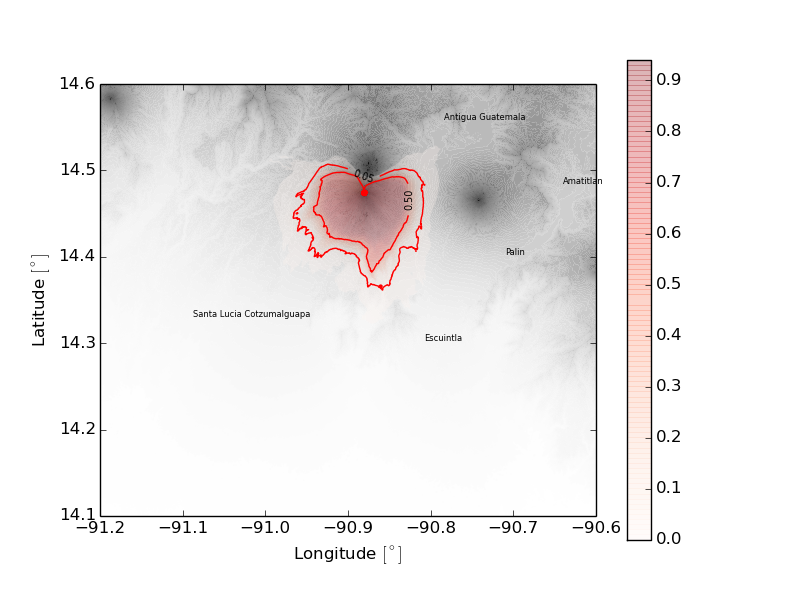
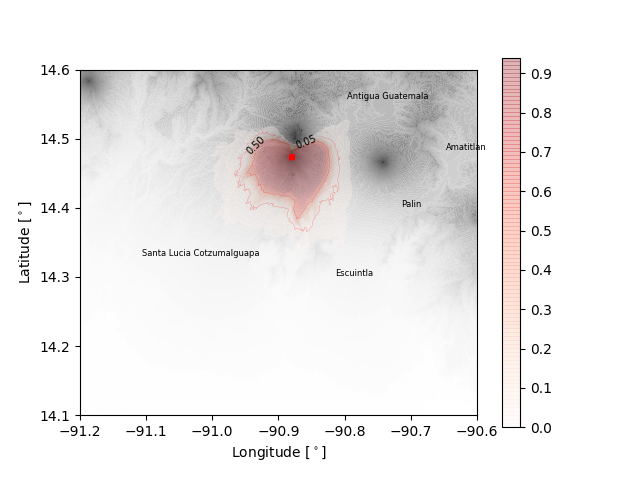
Minor changes

diff --git a/ECMapProb.py b/ECMapProb.py
@@ -506,6 +506,10 @@ angstep = 10
 distep = 10
 anglen = 360 / angstep
 pix_min = 0.0
+angstep_res2 = 2
+angstep_res3 = 0.4
+anglen_res2 = 360 / angstep_res2
+anglen_res3 = 360 / angstep_res3
 
 if( redist_energy == 3 or redist_energy == 4 ):
 	factor_mult = 50.0
@@ -526,7 +530,7 @@ if( redist_energy == 3 or redist_energy == 4 ):
 	vector_correc = np.zeros(int(anglen))
 
 if( save_data == 1 ):
-	summary_data = np.zeros((N,6 + length_direction))
+	summary_data = np.zeros((N,7 + length_direction))
 	summary_data[:,0] = height_vector
 	summary_data[:,1] = hl_vector
 	if( source_dem == 1 or source_dem == 3):
@@ -548,10 +552,13 @@ if(source_dem == 1 or source_dem == 3):
 	data_cones = np.zeros((cells_lat,cells_lon))
 	data_aux_t = np.ones((cells_lat,cells_lon))
 	data_aux_b = np.zeros((cells_lat,cells_lon))
-	vec_ang = range(0, 360, angstep)
+	vec_ang = np.arange(0, 360, angstep)
+	vec_ang_res2 = np.arange(0, 360, angstep_res2)
+	vec_ang_res3 = np.arange(0, 360, angstep_res3)
 
 	for i in range(0,N):
 
+		runout_min = -1
 		current_level = 0
 		data_step = np.zeros((cells_lat,cells_lon))
 		polygon = []
@@ -599,6 +606,8 @@ if(source_dem == 1 or source_dem == 3):
 
 			polygon_xy = []
 			polygons_new = []
+			polygon_xy_res2 = []
+			polygon_xy_res3 = []
 
 			for angle_deg in vec_ang:
 				angle_rad = angle_deg * np.pi /180
@@ -614,16 +623,38 @@ if(source_dem == 1 or source_dem == 3):
 				if( polygon[j][4] == np.int(polygon[j][4]) ):
 					for ii in range(int(anglen)):
 						vector_correc[ii] = vector_backward_1[int((ii - polygon[j][4] + index_max) % anglen)]
-
 				else:
 					for ii in range(int(anglen)):
 						vector_correc[ii] = vector_backward_2[int((ii - polygon[j][4] + index_max) % anglen)]
-
 				polygons_new = polygons_new * vector_correc
+			if( j == 0 ):
+				runout_min = min(polygons_new)
+
+			if( max(polygons_new) > 500 and max(polygons_new) < 5000 ):
+				for angle_deg in vec_ang_res2:
+					angle_rad = angle_deg * np.pi /180
+					for distance in range(0, 100000, distep):
+						h = interpol_pos(lon1, lat1, step_lon_deg, step_lat_deg, polygon[j][0] + distance * cos(angle_rad) * step_lon_deg / step_lon_m , polygon[j][1] + distance*sin(angle_rad)*step_lat_deg/step_lat_m , cells_lon, cells_lat, Topography)
+						if( h >= polygon[j][2] - hl_current * distance ):
+							polygon_xy_res2.append((int((polygon[j][0] + (distance - distep)*cos(angle_rad)*step_lon_deg/step_lon_m - lon1) * cells_lon / (lon2 - lon1)),int((polygon[j][1] + (distance - distep)*sin(angle_rad)*step_lat_deg/step_lat_m - lat1) * cells_lat / (lat2 - lat1))))
+							break
+			elif( max(polygons_new) >= 5000 ):
+				for angle_deg in vec_ang_res3:
+					angle_rad = angle_deg * np.pi /180
+					for distance in range(0, 100000, distep):
+						h = interpol_pos(lon1, lat1, step_lon_deg, step_lat_deg, polygon[j][0] + distance * cos(angle_rad) * step_lon_deg / step_lon_m , polygon[j][1] + distance*sin(angle_rad)*step_lat_deg/step_lat_m , cells_lon, cells_lat, Topography)
+						if( h >= polygon[j][2] - hl_current * distance ):
+							polygon_xy_res3.append((int((polygon[j][0] + (distance - distep)*cos(angle_rad)*step_lon_deg/step_lon_m - lon1) * cells_lon / (lon2 - lon1)),int((polygon[j][1] + (distance - distep)*sin(angle_rad)*step_lat_deg/step_lat_m - lat1) * cells_lat / (lat2 - lat1))))
+							break
 
 			img = Image.new('L', (cells_lon, cells_lat), 0)
 			if( len(polygon_xy) > 0 ):
-				draw = ImageDraw.Draw(img).polygon(polygon_xy, outline = 1 , fill = 1)
+				if(  max(polygons_new) <= 500 ):
+					draw = ImageDraw.Draw(img).polygon(polygon_xy, outline = 1 , fill = 1)
+				elif( max(polygons_new) > 500 and max(polygons_new) < 5000 ):
+					draw = ImageDraw.Draw(img).polygon(polygon_xy_res2, outline = 1 , fill = 1)
+				else:
+					draw = ImageDraw.Draw(img).polygon(polygon_xy_res3, outline = 1 , fill = 1)
 				data_step = np.maximum( np.minimum(data_aux_t, data_step + np.array(img)), data_aux_b)
 
 			if( cone_levels > polygon[j][3] and sum(sum(data_step)) > sum_pixels + pix_min ):
@@ -876,11 +907,12 @@ if(source_dem == 1 or source_dem == 3):
 				for ii in range(length_direction):
 					distances_corrected = distances * data_direction[:,:,ii]
 					distances_corrected = distances_corrected * data_step[ range(len(data_cones[:,0]) -1 , -1 , -1 ) , : ]
-					summary_data[i,6 + ii]  = distances_corrected.max() / 1000.0
+					summary_data[i,7 + ii]  = distances_corrected.max() / 1000.0
 
 			distances = distances * data_step[ range(len(data_cones[:,0]) -1 , -1 , -1 ) , : ]
 			summary_data[i,4] = sum(sum(data_step)) * area_pixel
 			summary_data[i,5] = distances.max() / 1000.0
+			summary_data[i,6] = runout_min / 1000.0
 
 		print(' Simulation finished (N = ' + str(i+1) + ')')
 
@@ -890,8 +922,11 @@ if( source_dem == 2 ):
 	data_aux_t = np.ones((n_north,n_east))
 	data_aux_b = np.zeros((n_north,n_east))
 	vec_ang = range(0, 360, angstep)
+	vec_ang_res2 = np.arange(0, 360, angstep_res2)
+	vec_ang_res3 = np.arange(0, 360, angstep_res3)
 
 	for i in range(0,N):
+		runout_min = -1
 		current_level = 0
 		data_step = np.zeros((n_north,n_east))
 		polygon = []
@@ -916,6 +951,8 @@ if( source_dem == 2 ):
 
 			polygon_xy = []
 			polygons_new = []
+			polygon_xy_res2 = []
+			polygon_xy_res3 = []
 
 			for angle_deg in vec_ang:
 				angle_rad = angle_deg * np.pi /180
@@ -937,10 +974,33 @@ if( source_dem == 2 ):
 						vector_correc[ii] = vector_backward_2[int((ii - polygon[j][4] + index_max) % anglen)]
 
 				polygons_new = polygons_new * vector_correc
+			if( j == 0 ):
+				runout_min = min(polygons_new)
+			if( max(polygons_new) > 500 and max(polygons_new) < 5000 ):
+				for angle_deg in vec_ang_res2:
+					angle_rad = angle_deg * np.pi /180
+					for distance in range(0, 100000, distep):
+						h = interpol_pos(east_cor, north_cor, cellsize, cellsize, polygon[j][0] + distance * cos(angle_rad) , polygon[j][1] + distance*sin(angle_rad) , n_east, n_north, Topography)
+						if( h >= polygon[j][2] - hl_current * distance ):
+							polygon_xy_res2.append((int((polygon[j][0] + (distance-distep)* cos(angle_rad) - east_cor) * n_east / ( cellsize * ( n_east - 1 ) ) ), int((polygon[j][1] + (distance-distep)*sin(angle_rad) - north_cor) * n_north / ( cellsize * ( n_north - 1 ) ))))
+							break
+			elif( max(polygons_new) >= 5000 ):
+				for angle_deg in vec_ang_res3:
+					angle_rad = angle_deg * np.pi /180
+					for distance in range(0, 100000, distep):
+						h = interpol_pos(east_cor, north_cor, cellsize, cellsize, polygon[j][0] + distance * cos(angle_rad) , polygon[j][1] + distance*sin(angle_rad) , n_east, n_north, Topography)
+						if( h >= polygon[j][2] - hl_current * distance ):
+							polygon_xy_res3.append((int((polygon[j][0] + (distance-distep)* cos(angle_rad) - east_cor) * n_east / ( cellsize * ( n_east - 1 ) ) ), int((polygon[j][1] + (distance-distep)*sin(angle_rad) - north_cor) * n_north / ( cellsize * ( n_north - 1 ) ))))
+							break
 
 			img = Image.new('L', (n_east, n_north), 0)
 			if( len(polygon_xy) > 0 ):
-				draw = ImageDraw.Draw(img).polygon(polygon_xy, outline = 0 , fill = 1)
+				if(  max(polygons_new) <= 500 ):
+					draw = ImageDraw.Draw(img).polygon(polygon_xy, outline = 1 , fill = 1)
+				elif( max(polygons_new) > 500 and max(polygons_new) < 5000 ):
+					draw = ImageDraw.Draw(img).polygon(polygon_xy_res2, outline = 1 , fill = 1)
+				else:
+					draw = ImageDraw.Draw(img).polygon(polygon_xy_res3, outline = 1 , fill = 1)
 				data_step = np.maximum( np.minimum(data_aux_t, data_step + np.array(img)), data_aux_b)
 
 			if( cone_levels > polygon[j][3] and sum(sum(data_step)) > sum_pixels + pix_min ):
@@ -1167,6 +1227,7 @@ if( source_dem == 2 ):
 			distances = distances * data_step[ range(len(data_cones[:,0]) -1 , -1 , -1 ) , : ]
 			summary_data[i,4] = sum(sum(data_step)) * area_pixel
 			summary_data[i,5] = distances.max() / 1000.0
+			summary_data[i,6] = runout_min / 1000.0
 
 		print(' Simulation finished (N = ' + str(i+1) + ')')
 
